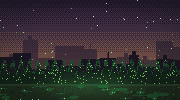
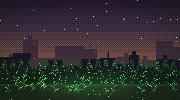
Troca o conteúdo do jogo para botânica
A matéria é botânica, e só uma das cinco lições era: as outras eram
radiação e DNA, microbiologia da água, resposta imune e micologia. A lore
já era botânica no osso, porque a protagonista é guardiã de sementes e a
solução é fitorremediação com girassol, então o que mudou foi o conteúdo
das decisões, não a história.

AS CINCO LIÇÕES, AGORA TODAS DE BOTÂNICA
1. Dormência e viabilidade: o gerador morreu e o abrigo vai esquentar.
   Umidade e calor quebram a dormência, e a semente que germina na
   mochila gasta a reserva e morre sem solo.
2. Transpiração: sem água na cisterna, ela fecha um galho com folhas num
   saco plástico. A planta perde água pelos estômatos e o vapor condensa.
3. Órgão de reserva e defesa química: as batatas de Elias estão
   esverdeadas. O tubérculo é caule modificado, e o verde da luz vem
   acompanhado de solanina.
4. Fotossíntese e solo: a estufa produz porque a luz dá energia e a terra
   veio de fora, isolada da contaminação. Já estava assim.
5. Fitorremediação: a raiz absorve o que está dissolvido e acumula em
   caule e folhas, porque césio imita potássio e estrôncio imita cálcio.

A MANCHA DEIXOU DE SER FUNGO
Passa a ser vegetação, coerente com a virada: colher e retirar a planta
limpa o terreno, queimar devolve tudo para o ar. A arte foi redesenhada
com caules e folhas no lugar da crosta.

MORTES AJUSTADAS AO NOVO CONTEÚDO
Sede, no lugar da água contaminada, para quem não soube tirar água da
[…]

diff --git a/src/game/cinzas.ts b/src/game/cinzas.ts
@@ -6,17 +6,20 @@
 // cheia e um protocolo decorado: queimar qualquer crescimento perto da
 // porta.
 //
-// O protocolo está errado, e a biologia é o que revela isso. A crosta
-// preta-esverdeada que todos queimam (a Mancha) é um fungo que está
-// retirando contaminação do solo. Os cinco desafios não são prova: são
-// pistas em escalada, e a última entrega a virada. A escolha final vira
-// queimar ou semear.
+// O protocolo está errado, e a botânica é o que revela isso. O mato que
+// todos queimam (a Mancha) é uma vegetação que está tirando contaminação
+// do solo pela raiz e guardando nas folhas. As cinco decisões não são
+// prova: são pistas em escalada, e a última entrega a virada. A escolha
+// final vira queimar ou semear.
+//
+// As cinco lições, todas de botânica: dormência e viabilidade de
+// sementes, transpiração, órgão de reserva e defesa química (solanina),
+// fotossíntese e absorção pelo solo, e fitorremediação.
 //
 // Referências assumidas: a Selva Tóxica de "Nausicaä do Vale do Vento"
 // (o que parece matar está purificando) e a ciência real da zona de
-// Chernobyl (fungos que acumulam césio-137 e estrôncio-90; girassóis
-// usados em fitorremediação porque césio e estrôncio imitam potássio e
-// cálcio).
+// Chernobyl (girassóis usados em fitorremediação, porque césio imita
+// potássio e estrôncio imita cálcio e a raiz absorve sem distinguir).
 //
 // Com um quiz de professor (link/QR, ver quizShare.ts), as 5 perguntas
 // são trocadas pelas dele e a narrativa segue igual (ver buildScenes.ts).
@@ -122,31 +125,31 @@ export type Scene = NarrativeScene | ChallengeScene | EndingScene | RouterScene;
 // ─────────────────────────────────────────────────────────
 // As 5 perguntas padrão. Cada uma entrega uma peça da virada.
 // ─────────────────────────────────────────────────────────
-const Q_RADIACAO: Pergunta = {
-  text: 'Você calcula quanto tempo pode ficar lá fora. O que pesa nessa conta?',
+const Q_SEMENTES: Pergunta = {
+  text: 'O gerador morreu e o abrigo vai esquentar. O que você faz com as sementes antes de sair?',
   options: [
-    'O tempo somado lá fora, porque cada dose vai quebrando o DNA das células',
-    'Só o que o aparelho marca agora: se não apitar forte, o dia inteiro é seguro',
-  ],
-  correct: 0,
-};
-
-const Q_AGUA: Pergunta = {
-  text: 'Sobra pouco combustível. O que você faz com essa água?',
-  options: [
-    'Coar num pano limpo: se sair transparente, está boa',
-    'Ferver por alguns minutos antes de encher os cantis',
+    'Molhar tudo antes de fechar, para elas não ressecarem dentro da mochila',
+    'Levar as que couberem secas e no escuro, porque calor e umidade acordam a semente fora da terra',
   ],
   correct: 1,
 };
 
-const Q_IMUNIDADE: Pergunta = {
-  text: 'O que você responde para ele?',
+const Q_TRANSPIRACAO: Pergunta = {
+  text: 'Você amarra um saco plástico num galho cheio de folhas, ao sol. Por que isso daria água?',
   options: [
-    'Que não é ferida fechando: o inchaço é a defesa do corpo agindo, e a linha subindo é a infecção se espalhando',
-    'Que ele tem razão, porque toda ferida esquenta enquanto cicatriza',
+    'Porque a planta perde água pelas folhas o dia inteiro, e esse vapor condensa no plástico',
+    'Porque o plástico esquenta e derrete o orvalho que fica preso na casca do galho',
   ],
   correct: 0,
+};
+
+const Q_SOLANINA: Pergunta = {
+  text: 'Elias separou um punhado de batatas com a casca esverdeada. O que você diz para ele?',
+  options: [
+    'Que o verde é só clorofila, sinal de batata fresca, e é a parte mais nutritiva',
+    'Que o verde é sinal de que ela pegou luz, e junto com a clorofila vem solanina, que é tóxica',
+  ],
+  correct: 1,
 };
 
 const Q_ESTUFA: Pergunta = {
@@ -158,13 +161,13 @@ const Q_ESTUFA: Pergunta = {
   correct: 1,
 };
 
-const Q_FUNGO: Pergunta = {
-  text: 'Elias espera você dizer alguma coisa. O que está acontecendo naquela parede?',
+const Q_RAIZES: Pergunta = {
+  text: 'Elias espera você dizer alguma coisa. O que essas plantas estão fazendo com o terreno?',
   options: [
-    'A crosta é um fungo, e fungo acumula no corpo o que está dissolvido em volta, inclusive material radioativo',
-    'O fungo solta oxigênio, e isso dilui a radiação do ar em volta',
+    'A folhagem faz sombra, e a sombra segura a contaminação embaixo, impedindo que ela suba',
+    'A raiz absorve o que está dissolvido no solo e guarda no caule e nas folhas, inclusive o material radioativo',
   ],
-  correct: 0,
+  correct: 1,
 };
 
 // ─────────────────────────────────────────────────────────
@@ -178,19 +181,19 @@ export function defaultScenes(): Record<string, Scene> {
       icon: 'silo', title: 'Abrigo 7',
       text: 'O Abrigo 7 guardava dezoito mil variedades de semente e uma pessoa: você. Fazem três dias desde a Queda e o rádio não repete nada além de estática. Na parede, o protocolo que você decorou aos onze anos: manter os potes selados, racionar a água e queimar qualquer crescimento a menos de cinquenta metros da porta.',
       choices: [
-        { label: 'Sair agora, enquanto ainda há luz', effect: { agua: -5 }, next: () => 'desafio_radiacao' },
-        { label: 'Esperar mais um dia e economizar energia', effect: { racao: -10, saude: 5 }, next: () => 'desafio_radiacao' },
+        { label: 'Sair agora, enquanto ainda há luz', effect: { agua: -5 }, next: () => 'desafio_sementes' },
+        { label: 'Esperar mais um dia e economizar energia', effect: { racao: -10, saude: 5 }, next: () => 'desafio_sementes' },
       ],
     },
 
-    desafio_radiacao: {
-      id: 'desafio_radiacao', kind: 'challenge', art: 'bunker', day: 1, chapter: 'CAPÍTULO 1', mood: 'dawn',
-      icon: 'ablaze', title: 'O Contador Geiger',
-      intro: 'Antes de girar a trava da escotilha, você para diante do contador. O ponteiro treme baixo, e o treinamento volta inteiro: o perigo não é o barulho do aparelho num instante, é o que a dose faz por dentro ao longo dos dias.',
-      question: Q_RADIACAO,
-      correctText: 'Você anota a hora da saída no pulso, a caneta. Vai contar cada minuto lá fora.',
-      wrongText: 'Você sai sem marcar a hora. Só à noite, deitada, vai lembrar que o treinamento falava em dose somada, não em susto de um dia.',
-      hint: 'Radiação ionizante carrega energia suficiente para romper ligações químicas do DNA. A célula pode morrer, parar de se dividir ou se dividir errado, e o estrago se soma a cada exposição. Por isso quem trabalha com isso conta minutos, não sustos.',
+    desafio_sementes: {
+      id: 'desafio_sementes', kind: 'challenge', art: 'bunker', day: 1, chapter: 'CAPÍTULO 1', mood: 'dawn',
+      icon: 'sprout', title: 'O Banco de Sementes',
+      intro: 'O gerador parou de madrugada. Sem refrigeração, a temperatura do abrigo sobe todo dia, e você conhece de cor o que isso faz com um banco de sementes: o que está guardado ali só continua vivo porque está frio, seco e no escuro.',
+      question: Q_SEMENTES,
+      correctText: 'Você escolhe os envelopes menores, fecha com fita e enfia no fundo da mochila, longe do sol. Dezoito mil variedades não cabem. Setecentas cabem.',
+      wrongText: 'Você molha os envelopes achando que protege. Duas semanas depois, quase tudo que germinou dentro da mochila apodreceu antes de ver terra.',
+      hint: 'Semente guardada está em dormência: viva, mas com o metabolismo quase parado. Umidade e calor são justamente os sinais que quebram essa dormência e mandam germinar. Se ela germina dentro da mochila, gasta a reserva que tinha e morre sem solo. É por isso que banco de semente é frio, seco e escuro.',
       effectCorrect: { saude: 5, lucidez: 15 },
       effectWrong: { saude: -10 },
       next: 'ruinas',
@@ -200,9 +203,9 @@ export function defaultScenes(): Record<string, Scene> {
     ruinas: {
       id: 'ruinas', kind: 'narrative', art: 'ruins', day: 2, chapter: 'CAPÍTULO 2', mood: 'ash',
       icon: 'busstop', title: 'As Ruínas',
-      text: 'A cidade virou esqueleto de concreto. Você reconhece a padaria pela placa torta e não reconhece mais nada. Numa parede inteira de estacionamento cresce uma crosta preta e esverdeada, do tipo que o protocolo manda queimar. Você passa longe. O contador, que apitava firme na rua, fica mais quieto perto dela. Você anota e não pensa mais nisso.',
+      text: 'A cidade virou esqueleto de concreto. Você reconhece a padaria pela placa torta e não reconhece mais nada. Num estacionamento inteiro cresceu um emaranhado baixo e escuro, folha grossa e caule roxo, do tipo que o protocolo manda queimar. Você passa longe. O contador, que apitava firme na rua, fica mais quieto perto do canteiro. Você anota e não pensa mais nisso.',
       choices: [
-        { label: 'Entrar no hospital atrás de remédios', effect: { saude: 15, agua: -10 }, next: () => 'desafio_agua' },
+        { label: 'Entrar no hospital atrás de remédios', effect: { saude: 15, agua: -10 }, next: () => 'desafio_transpiracao' },
         { label: 'Cortar pela zona industrial até o mercado', effect: { racao: 15 }, next: () => 'perigo' },
       ],
     },
@@ -210,30 +213,30 @@ export function defaultScenes(): Record<string, Scene> {
     perigo: {
       id: 'perigo', kind: 'narrative', art: 'toxic', day: 2, chapter: 'CAPÍTULO 2', mood: 'danger',
       icon: 'gasmask', title: 'Zona Industrial',
-      text: 'A poeira esverdeada só aparece contra a luz, e quando você percebe já está respirando. Não é a Mancha: é pó de concreto misturado com o que sobrou do incêndio dos galpões. O contador dispara aqui, e não há parede coberta de crosta em lugar nenhum deste quarteirão.',
+      text: 'A poeira esverdeada só aparece contra a luz, e quando você percebe já está respirando. Não é a Mancha: é pó de concreto misturado com o que sobrou do incêndio dos galpões. O contador dispara aqui, e não há um pé de mato vivo em lugar nenhum deste quarteirão.',
       choices: [
         { label: 'Amarrar o pano no rosto e atravessar correndo', effect: { saude: -22, agua: -10 }, next: () => 'rota_travessia' },
-        { label: 'Voltar e fazer o contorno, mais longo e mais seguro', effect: { racao: -15, agua: -5 }, next: () => 'desafio_agua' },
+        { label: 'Voltar e fazer o contorno, mais longo e mais seguro', effect: { racao: -15, agua: -5 }, next: () => 'desafio_transpiracao' },
       ],
     },
 
     rota_travessia: {
       id: 'rota_travessia', kind: 'router', art: 'toxic', day: 2, chapter: 'CAPÍTULO 2', mood: 'danger', title: '',
-      next: (s) => (s.saude <= 22 ? 'final_dose' : 'desafio_agua'),
+      next: (s) => (s.saude <= 22 ? 'final_dose' : 'desafio_transpiracao'),
     },
     rota_agua: {
       id: 'rota_agua', kind: 'router', art: 'cistern', day: 3, chapter: 'CAPÍTULO 3', mood: 'ash', title: '',
-      next: (s) => (s.saude <= 22 ? 'final_disenteria' : 'encontro'),
+      next: (s) => (s.saude <= 22 ? 'final_sede' : 'encontro'),
     },
 
-    desafio_agua: {
-      id: 'desafio_agua', kind: 'challenge', art: 'cistern', day: 2, chapter: 'CAPÍTULO 2', mood: 'ash',
-      icon: 'flask', title: 'A Cisterna',
-      intro: 'A caixa d’água do prédio ficou de pé e ainda tem quase um palmo de água no fundo, turva e parada há três dias. Você está com sede o bastante para considerar beber assim.',
-      question: Q_AGUA,
-      correctText: 'Você junta madeira e ferve. Custa combustível que não estava sobrando, e é a escolha certa.',
-      wrongText: 'Você enche os cantis do jeito que estão. Passa a noite esperando para ver no que dá, e não dorme direito.',
-      hint: 'Ferver mata bactérias, vírus e protozoários, que é o risco imediato de uma água parada há dias. Coar tira a sujeira visível e não tira micro-organismo nenhum. E fervura não resolve o resto: contaminação química e radioativa continua ali depois.',
+    desafio_transpiracao: {
+      id: 'desafio_transpiracao', kind: 'challenge', art: 'cistern', day: 2, chapter: 'CAPÍTULO 2', mood: 'ash',
+      icon: 'flask', title: 'Sede',
+      intro: 'A caixa d’água do prédio secou faz tempo. O que sobrou vivo no quarteirão é uma amendoeira teimosa rachando o asfalto, cheia de folha verde. Na mochila você tem sacos plásticos e barbante.',
+      question: Q_TRANSPIRACAO,
+      correctText: 'Você amarra três sacos nos galhos mais folhudos e volta ao fim da tarde. Não é muito, mas é água limpa, e saiu de dentro da árvore.',
+      wrongText: 'Você raspa a casca atrás de orvalho e junta quase nada. Segue com os cantis leves, e a boca já está seca antes do meio-dia.',
+      hint: 'A planta puxa água do solo pela raiz e perde quase toda ela como vapor pelas folhas, pelos estômatos. É a transpiração, e é ela que mantém a coluna de água subindo pelo caule. Fechando um galho com folhas dentro de um saco, esse vapor condensa no plástico e escorre. A água sai filtrada pela própria planta.',
       effectCorrect: { agua: 10, saude: 5, lucidez: 15 },
       effectWrong: { saude: -26 },
       next: 'rota_agua',
@@ -245,30 +248,35 @@ export function defaultScenes(): Record<string, Scene> {
       icon: 'lamp', title: 'Um Rosto na Poeira',
       text: 'Perto de um posto sem telhado, um homem magro põe a mochila no chão bem devagar, para você ver que está largando. Diz que se chama Elias. O braço direito está enfaixado com pano de cortina, e a mancha vermelha no pano é maior do que ele admite.',
       choices: [
-        { label: 'Oferecer parte das provisões em troca de conversa', effect: { racao: -10, confianca: 25 }, next: () => 'desafio_imunidade' },
-        { label: 'Manter distância e seguir sozinha', effect: { confianca: -10 }, next: (s) => s.confianca < 10 ? 'final_lobo' : 'desafio_imunidade' },
+        { label: 'Oferecer parte das provisões em troca de conversa', effect: { racao: -10, confianca: 25 }, next: () => 'desafio_solanina' },
+        { label: 'Manter distância e seguir sozinha', effect: { confianca: -10 }, next: (s) => s.confianca < 10 ? 'final_lobo' : 'desafio_solanina' },
       ],
     },
 
-    desafio_imunidade: {
-      id: 'desafio_imunidade', kind: 'challenge', art: 'station', day: 3, chapter: 'CAPÍTULO 3', mood: 'dusk',
-      icon: 'bandage', title: 'O Braço de Elias',
-      intro: 'Ele deixa você trocar o pano. Por baixo, a pele em volta do corte está quente ao toque, e o vermelho avança numa linha fina em direção ao cotovelo. Elias diz que é só a ferida fechando.',
-      question: Q_IMUNIDADE,
-      correctText: 'Ele para de brincar. Você lava com água fervida, amarra frouxo e diz que ele precisa de antibiótico em dias, não em semanas. Depois ele fica quieto um tempo e pergunta: se o corpo cerca o que envenena ele, por que o mundo não faria igual?',
-      wrongText: 'Ele aceita a explicação e agradece. Mais tarde, sozinha, você repara que a linha vermelha subiu mais um dedo desde a manhã.',
-      hint: 'Pele rompida deixa de ser barreira e bactéria entra. O corpo manda sangue e células de defesa para o local, e é isso que produz calor, vermelhidão e inchaço. A linha vermelha subindo pelo braço é sinal de que a infecção saiu do ponto do corte e está seguindo pelos vasos.',
+    desafio_solanina: {
+      id: 'desafio_solanina', kind: 'challenge', art: 'station', day: 3, chapter: 'CAPÍTULO 3', mood: 'dusk',
+      icon: 'bread', title: 'O Achado de Elias',
+      intro: 'Ele abre a mochila e mostra o motivo do bom humor: batatas, tiradas de um fundo de quintal. Metade está com a casca puxando para o verde, do tempo que passaram expostas na sacola dele.',
+      question: Q_SOLANINA,
+      correctText: 'Ele reclama do desperdício, mas descasca fundo e joga fora o que estava verde. Naquela noite vocês comem sem passar mal. Antes de dormir ele pergunta: então a planta se defende? E você diz que sim, quase toda planta se defende de algum jeito.',
+      wrongText: 'Vocês comem tudo, casca e verde. A queimação na garganta começa em uma hora, e a noite inteira é vômito e dor de cabeça, para os dois.',
+      hint: 'A batata é um caule subterrâneo modificado, um tubérculo, e serve de reserva de amido para a planta. Exposta à luz, ela produz clorofila e fica verde, e junto vem a solanina, uma substância de defesa contra quem quer comê-la. O verde não é o veneno: é o aviso de que o veneno subiu junto. Por isso se corta fundo a parte esverdeada, ou se descarta.',
       effectCorrect: { confianca: 10, saude: 3, lucidez: 15 },
-      effectWrong: { confianca: -8 },
-      next: 'mancha',
+      effectWrong: { confianca: -8, saude: -24 },
+      next: 'rota_batata',
+    },
+
+    rota_batata: {
+      id: 'rota_batata', kind: 'router', art: 'station', day: 3, chapter: 'CAPÍTULO 3', mood: 'dusk', title: '',
+      next: (s) => (s.saude <= 22 ? 'final_solanina' : 'mancha'),
     },
 
     mancha: {
       id: 'mancha', kind: 'narrative', art: 'mancha', day: 3, chapter: 'CAPÍTULO 3', mood: 'bleak',
       icon: 'poison', title: 'A Mancha',
-      text: 'Elias dorme mal e acorda antes do sol firmar. Leva você dois quarteirões e para diante de um muro tomado pela crosta, que de perto tem fios finos e cheiro de terra molhada. Ele diz que passou três semanas dormindo a vinte metros dali. Você olha o braço dele, uma infecção comum de quem se corta em metal enferrujado, e nenhum dos sinais que a radiação deixa. Então ele estende o contador na direção do muro, e o ponteiro cai.',
+      text: 'Elias dorme mal e acorda antes do sol firmar. Leva você dois quarteirões e para diante de um terreno tomado pelo mato, que de perto é uma vegetação só, folha larga e cheiro forte de verde. Ele diz que passou três semanas dormindo a vinte metros dali. Você procura nele os sinais que a radiação deixa e não acha nenhum. Então ele estende o contador na direção do chão do terreno, e o ponteiro cai.',
       choices: [
-        { label: 'Raspar uma amostra da crosta e guardar', effect: { confianca: 5 }, next: () => 'assentamento' },
+        { label: 'Arrancar uma planta inteira, com raiz, e guardar', effect: { confianca: 5 }, next: () => 'assentamento' },
         { label: 'Anotar tudo no caderno e seguir para as luzes', next: () => 'assentamento' },
       ],
     },
@@ -277,7 +285,7 @@ export function defaultScenes(): Record<string, Scene> {
     assentamento: {
       id: 'assentamento', kind: 'narrative', art: 'settlement', day: 4, chapter: 'CAPÍTULO 4', mood: 'settle',
       icon: 'windmill', title: 'O Cercado',
-      text: 'O Cercado é uma muralha de chapas com fumaça saindo por cima. Dentro, sob plástico translúcido e lâmpadas puxadas de um moinho, fileiras de alface. Do lado de fora, o canteiro que eles abriram direto na terra deu um palmo de folha amarela e travou. Toda lua nova eles saem em turma, com tochas, e queimam a Mancha que chegou perto do muro.',
+      text: 'O Cercado é uma muralha de chapas com fumaça saindo por cima. Dentro, sob plástico translúcido e lâmpadas puxadas de um moinho, fileiras de alface. Do lado de fora, o canteiro que eles abriram direto na terra deu um palmo de folha amarela e travou. Toda lua nova eles saem em turma, com tochas, e queimam o mato que chegou perto do muro.',
       choices: [
         { label: 'Se aproximar e pedir abrigo', effect: { confianca: 10 }, next: () => 'desafio_estufa' },
         { label: 'Observar de longe antes de se entregar', effect: { agua: -5 }, next: () => 'desafio_estufa' },
@@ -294,17 +302,17 @@ export function defaultScenes(): Record<string, Scene> {
       hint: 'A luz, do sol ou de lâmpada, entra na fotossíntese como energia: a planta transforma gás carbônico e água em glicose e solta oxigênio. Só que ela também tira água e sais minerais do solo, e aí está o problema do canteiro de fora. Césio e estrôncio se parecem quimicamente com potássio e cálcio, e a raiz absorve os dois sem distinguir.',
       effectCorrect: { confianca: 8, racao: 5, lucidez: 15 },
       effectWrong: { confianca: -4 },
-      next: 'desafio_fungo',
+      next: 'desafio_raizes',
     },
 
-    desafio_fungo: {
-      id: 'desafio_fungo', kind: 'challenge', art: 'mancha', day: 4, chapter: 'CAPÍTULO 4', mood: 'bleak',
-      icon: 'poison', title: 'O Que a Mancha Faz',
-      intro: 'Você volta ao muro com Elias e Dona Neide. Raspa a crosta com a faca, encosta o contador na parede descoberta e depois afasta dois passos. O número sobe quando você se afasta da Mancha.',
-      question: Q_FUNGO,
-      correctText: 'Você entende antes de conseguir explicar direito. A Mancha não está envenenando o terreno: está puxando o veneno de dentro dele e prendendo em si mesma. E o Cercado queima isso toda lua nova.',
-      wrongText: 'Não é bem assim, e Dona Neide chega ao fim do raciocínio antes de você. A conta que sobra é pior: alguma coisa naquela parede está tirando contaminação de onde ela estava, e eles queimam aquilo todo mês.',
-      hint: 'Fungos decompositores absorvem o que está dissolvido no substrato e acumulam no próprio corpo. Na zona de Chernobyl, espécies coletadas concentraram césio-137 e estrôncio-90 em níveis até mil vezes maiores que o ambiente em volta, e algumas usam melanina para lidar com a radiação, mais ou menos como a clorofila lida com a luz. Tirar o contaminante do solo e prender num organismo tem nome: biorremediação. Queimar devolve tudo para o ar.',
+    desafio_raizes: {
+      id: 'desafio_raizes', kind: 'challenge', art: 'mancha', day: 4, chapter: 'CAPÍTULO 4', mood: 'bleak',
+      icon: 'sprout', title: 'O Que a Mancha Faz',
+      intro: 'Você volta ao terreno com Elias e Dona Neide. Arranca uma das plantas inteira, com raiz e tudo, e passa o contador nela: o aparelho dispara na planta arrancada. Depois você mede o chão de onde ela saiu, e ali o número é baixo.',
+      question: Q_RAIZES,
+      correctText: 'Você entende antes de conseguir explicar direito. A Mancha não está envenenando o terreno: está puxando o veneno de dentro dele pela raiz e guardando nas folhas. E o Cercado queima isso toda lua nova.',
+      wrongText: 'Não é a sombra, e Dona Neide chega ao fim do raciocínio antes de você: se a planta arrancada mede alto e o chão mede baixo, a contaminação saiu do chão e está dentro dela. E eles queimam aquilo todo mês.',
+      hint: 'A raiz absorve água e sais minerais dissolvidos, e sobe tudo pelo xilema até folhas e caule. O problema é que ela não distingue: césio se parece quimicamente com potássio e estrôncio com cálcio, então entram pelo mesmo caminho e ficam acumulados na planta. Usar planta para tirar contaminante do solo tem nome, fitorremediação, e girassol foi plantado em Chernobyl exatamente para isso. Só que colher e retirar a planta limpa o terreno. Queimar devolve tudo para o ar.',
       effectCorrect: { confianca: 12, lucidez: 40 },
       effectWrong: { confianca: -8 },
       next: 'escolha',
@@ -314,7 +322,7 @@ export function defaultScenes(): Record<string, Scene> {
     escolha: {
       id: 'escolha', kind: 'narrative', art: 'mancha', day: 5, chapter: 'A ESCOLHA', mood: 'bleak',
       icon: 'sprout', title: 'Lua Nova',
-      text: 'A turma das tochas sai amanhã. Queimar a crosta devolve para o ar e para a cinza tudo o que ela recolheu, e o terreno recomeça do zero, de novo, como vem acontecendo a cada lua nova. Deixar viver é apostar numa limpeza que leva anos, e ninguém ali chegou perto de ver o fim disso. Você tem dezoito mil variedades de semente na mochila e uma noite para decidir.',
+      text: 'A turma das tochas sai amanhã. Queimar devolve para o ar e para a cinza tudo o que aquelas plantas tiraram do chão, e o terreno recomeça do zero, de novo, como vem acontecendo a cada lua nova. Deixar viver é apostar numa limpeza que leva anos, e ninguém ali chegou perto de ver o fim disso. Você tem dezoito mil variedades de semente na mochila e uma noite para decidir.',
       choices: [
         { label: 'Queimar com eles, como manda o protocolo', effect: { confianca: 5 }, next: () => 'rota_queima' },
         { label: 'Semear girassol na borda e defender a Mancha', effect: { racao: -5 }, next: () => 'rota_semeia' },
@@ -325,7 +333,7 @@ export function defaultScenes(): Record<string, Scene> {
       id: 'rota_queima', kind: 'router', art: 'settlement', day: 5, chapter: 'EPÍLOGO', mood: 'settle', title: '',
       next: (s) => {
         if (s.saude <= 22) return 'final_perdida';
-        // quem não entendeu o que a crosta guardava fica na fumaça
+        // quem não entendeu o que as folhas guardavam fica na fumaça
         if (s.lucidez < 70) return 'final_fumaca';
         return s.confianca >= 35 ? 'final_fogueira' : 'final_lobo';
       },
@@ -343,7 +351,7 @@ export function defaultScenes(): Record<string, Scene> {
     final_colheita: {
       id: 'final_colheita', kind: 'ending', art: 'dawn', day: 5, chapter: 'EPÍLOGO', mood: 'hope', icon: 'sprout',
       title: 'A Primeira Colheita',
-      text: 'Você gastou três noites convencendo o Cercado a adiar uma única queimada. Levou dois anos para o girassol da borda virar rotina e para a crosta avançar sem que ninguém corresse atrás de tocha. No terceiro inverno mediram o canteiro velho, e o número tinha caído o bastante para plantar direto na terra. A alface daquele ano foi a primeira que não veio de caminhão.',
+      text: 'Você gastou três noites convencendo o Cercado a adiar uma única queimada. Levou dois anos para o girassol da borda virar rotina, e para a colheita da Mancha, cortada e levada para longe em vez de queimada, virar trabalho de todo mês. No terceiro inverno mediram o canteiro velho, e o número tinha caído o bastante para plantar direto na terra. A alface daquele ano foi a primeira que não veio de caminhão.',
     },
     final_lenta: {
       id: 'final_lenta', kind: 'ending', art: 'lone', day: 5, chapter: 'EPÍLOGO', mood: 'settle', icon: 'sprout',
@@ -370,20 +378,25 @@ export function defaultScenes(): Record<string, Scene> {
       title: 'Dose Demais', morte: true,
       text: 'Um pano no rosto segura poeira, e o que havia naquele quarteirão não era só poeira. O enjoo começa antes de você sair da zona. À noite vem a febre, e depois o resto. Você atravessou correndo para poupar duas horas de caminhada, e a conta que o contador estava fazendo não era sobre pressa: era sobre quanto do estrago se soma.',
     },
-    final_disenteria: {
-      id: 'final_disenteria', kind: 'ending', art: 'bleak', day: 3, chapter: 'FIM', mood: 'bleak', icon: 'flask',
-      title: 'A Água da Caixa', morte: true,
-      text: 'A água estava limpa aos olhos e nenhum olho enxerga bactéria. A cólica chega de madrugada, e o resto vem rápido demais para uma pessoa sozinha, sem soro e sem ninguém para buscar ajuda. Ferver custaria um galho de madeira e vinte minutos.',
+    final_solanina: {
+      id: 'final_solanina', kind: 'ending', art: 'station', day: 3, chapter: 'FIM', mood: 'dusk', icon: 'poison',
+      title: 'O Verde da Batata', morte: true,
+      text: 'A queimação virou vômito, o vômito virou desidratação, e nenhum dos dois tinha soro. Elias aguenta melhor porque comeu menos. Você não. A planta avisou com a cor, e o aviso estava do lado de fora da casca, onde dava para ver.',
+    },
+    final_sede: {
+      id: 'final_sede', kind: 'ending', art: 'bleak', day: 3, chapter: 'FIM', mood: 'bleak', icon: 'flask',
+      title: 'Sede', morte: true,
+      text: 'Você andou o dia inteiro raspando casca atrás de umidade, e passou por dezenas de árvores carregadas de folha sem entender que cada uma delas estava soltando água no ar o tempo todo. No segundo dia a cabeça já não fecha uma conta simples. Um saco plástico e um galho custariam uma tarde de espera.',
     },
     final_fumaca: {
       id: 'final_fumaca', kind: 'ending', art: 'toxic', day: 5, chapter: 'FIM', mood: 'danger', icon: 'ablaze',
       title: 'O Que Subiu com a Fumaça', morte: true,
-      text: 'Você entrou na fila com a tocha sem entender o que estava queimando. Anos de contaminação que a crosta tinha puxado do solo voltaram ao ar em uma noite, e o Cercado inteiro respirou aquilo de perto. Os primeiros sintomas aparecem na semana seguinte, em você e em mais gente. Ninguém liga uma coisa à outra, porque ninguém ali sabia o que a Mancha guardava.',
+      text: 'Você entrou na fila com a tocha sem entender o que estava queimando. Anos de contaminação que aquelas plantas tinham puxado do solo voltaram ao ar em uma noite, e o Cercado inteiro respirou aquilo de perto. Os primeiros sintomas aparecem na semana seguinte, em você e em mais gente. Ninguém liga uma coisa à outra, porque ninguém ali sabia o que a Mancha guardava nas folhas.',
     },
     final_perdida: {
       id: 'final_perdida', kind: 'ending', art: 'bleak', day: 5, chapter: 'FIM', mood: 'bleak', icon: 'poison',
       title: 'Perdida nas Ruínas', morte: true,
-      text: 'O corpo desiste antes da vontade. Em algum ponto entre o Cercado e o muro tomado de crosta, sua história para de ser contada por você. A mochila com dezoito mil sementes fica encostada num poste, ainda fechada, esperando alguém que saiba o que fazer com ela.',
+      text: 'O corpo desiste antes da vontade. Em algum ponto entre o Cercado e o terreno tomado de mato, sua história para de ser contada por você. A mochila com dezoito mil sementes fica encostada num poste, ainda fechada, esperando alguém que saiba o que fazer com ela.',
     },
   };
 }

diff --git a/src/game/credits.ts b/src/game/credits.ts
@@ -45,7 +45,7 @@ export const CREDITS: CreditSection[] = [
         title: 'Roteiro e virada',
         author: 'Equipe do Prof. Corujão',
         license: 'Original do projeto',
-        note: 'Os 4 capítulos, a escolha final e os 9 desfechos, três deles por morte, foram escritos para este jogo. A biologia aparece como decisão da personagem, não como prova: radiação e DNA, fervura e micro-organismos, resposta imune, fotossíntese e contaminação do solo, e fungos que acumulam isótopos.',
+        note: 'Os 4 capítulos, a escolha final e os 9 desfechos, três deles por morte, foram escritos para este jogo. A botânica aparece como decisão da personagem, não como prova: dormência e viabilidade de sementes, transpiração, órgão de reserva e defesa química da batata, fotossíntese e contaminação do solo, e fitorremediação pela raiz.',
       },
     ],
   },
@@ -59,10 +59,10 @@ export const CREDITS: CreditSection[] = [
         note: 'A Selva Tóxica parece estar matando o mundo e na verdade o purifica. A Mancha de CINZAS parte da mesma ideia, e daí vem o erro do protocolo que a protagonista carrega.',
       },
       {
-        title: 'Fungos da zona de Chernobyl',
+        title: 'Fitorremediação na zona de Chernobyl',
         author: 'Pesquisa publicada',
         license: 'Base científica',
-        note: 'Espécies coletadas na zona concentram césio-137 e estrôncio-90 muito acima do ambiente em volta, e algumas usam melanina diante da radiação. É o que a Mancha faz no jogo.',
+        note: 'Plantas absorvem pela raiz o que está dissolvido no solo e acumulam no caule e nas folhas. É exatamente o que a Mancha faz no jogo.',
       },
       {
         title: 'Girassóis e fitorremediação',

diff --git a/src/App.tsx b/src/App.tsx
@@ -13,20 +13,21 @@ import { decodeQuiz, type SharedQuiz } from './game/quizShare';
 // Atalhos de DEV — pulam direto para um capítulo/desafio/desfecho
 const DEV_SCENES = [
   { label: 'Cap. 1 — Abrigo 7', id: 'abrigo' },
-  { label: 'Cap. 1 — O contador', id: 'desafio_radiacao' },
+  { label: 'Cap. 1 — As sementes', id: 'desafio_sementes' },
   { label: 'Cap. 2 — As Ruínas', id: 'ruinas' },
   { label: 'Cap. 2 — Zona industrial', id: 'perigo' },
-  { label: 'Cap. 2 — A cisterna', id: 'desafio_agua' },
+  { label: 'Cap. 2 — Sede (transpiração)', id: 'desafio_transpiracao' },
   { label: 'Cap. 3 — Elias', id: 'encontro' },
-  { label: 'Cap. 3 — O braço de Elias', id: 'desafio_imunidade' },
+  { label: 'Cap. 3 — A batata verde', id: 'desafio_solanina' },
   { label: 'Cap. 3 — A Mancha', id: 'mancha' },
   { label: 'Cap. 4 — O Cercado', id: 'assentamento' },
   { label: 'Cap. 4 — A estufa', id: 'desafio_estufa' },
-  { label: 'Cap. 4 — A virada', id: 'desafio_fungo' },
+  { label: 'Cap. 4 — A virada (raízes)', id: 'desafio_raizes' },
   { label: 'A escolha (lua nova)', id: 'escolha' },
   { label: 'Epílogo — A Primeira Colheita', id: 'final_colheita' },
   { label: 'Epílogo — A Fogueira', id: 'final_fogueira' },
-  { label: 'Morte — A Água da Caixa', id: 'final_disenteria' },
+  { label: 'Morte — Sede', id: 'final_sede' },
+  { label: 'Morte — O Verde da Batata', id: 'final_solanina' },
   { label: 'Morte — Dose Demais', id: 'final_dose' },
   { label: 'Morte — A Fumaça', id: 'final_fumaca' },
 ] as const;

diff --git a/src/game/buildScenes.ts b/src/game/buildScenes.ts
@@ -13,8 +13,8 @@ import { defaultScenes, type Scene } from './cinzas';
 import type { SharedQuiz } from './quizShare';
 
 const CHALLENGE_IDS = [
-  'desafio_radiacao', 'desafio_agua', 'desafio_imunidade',
-  'desafio_estufa', 'desafio_fungo',
+  'desafio_sementes', 'desafio_transpiracao', 'desafio_solanina',
+  'desafio_estufa', 'desafio_raizes',
 ] as const;
 
 export function buildScenes(quiz?: SharedQuiz | null): Record<string, Scene> {
